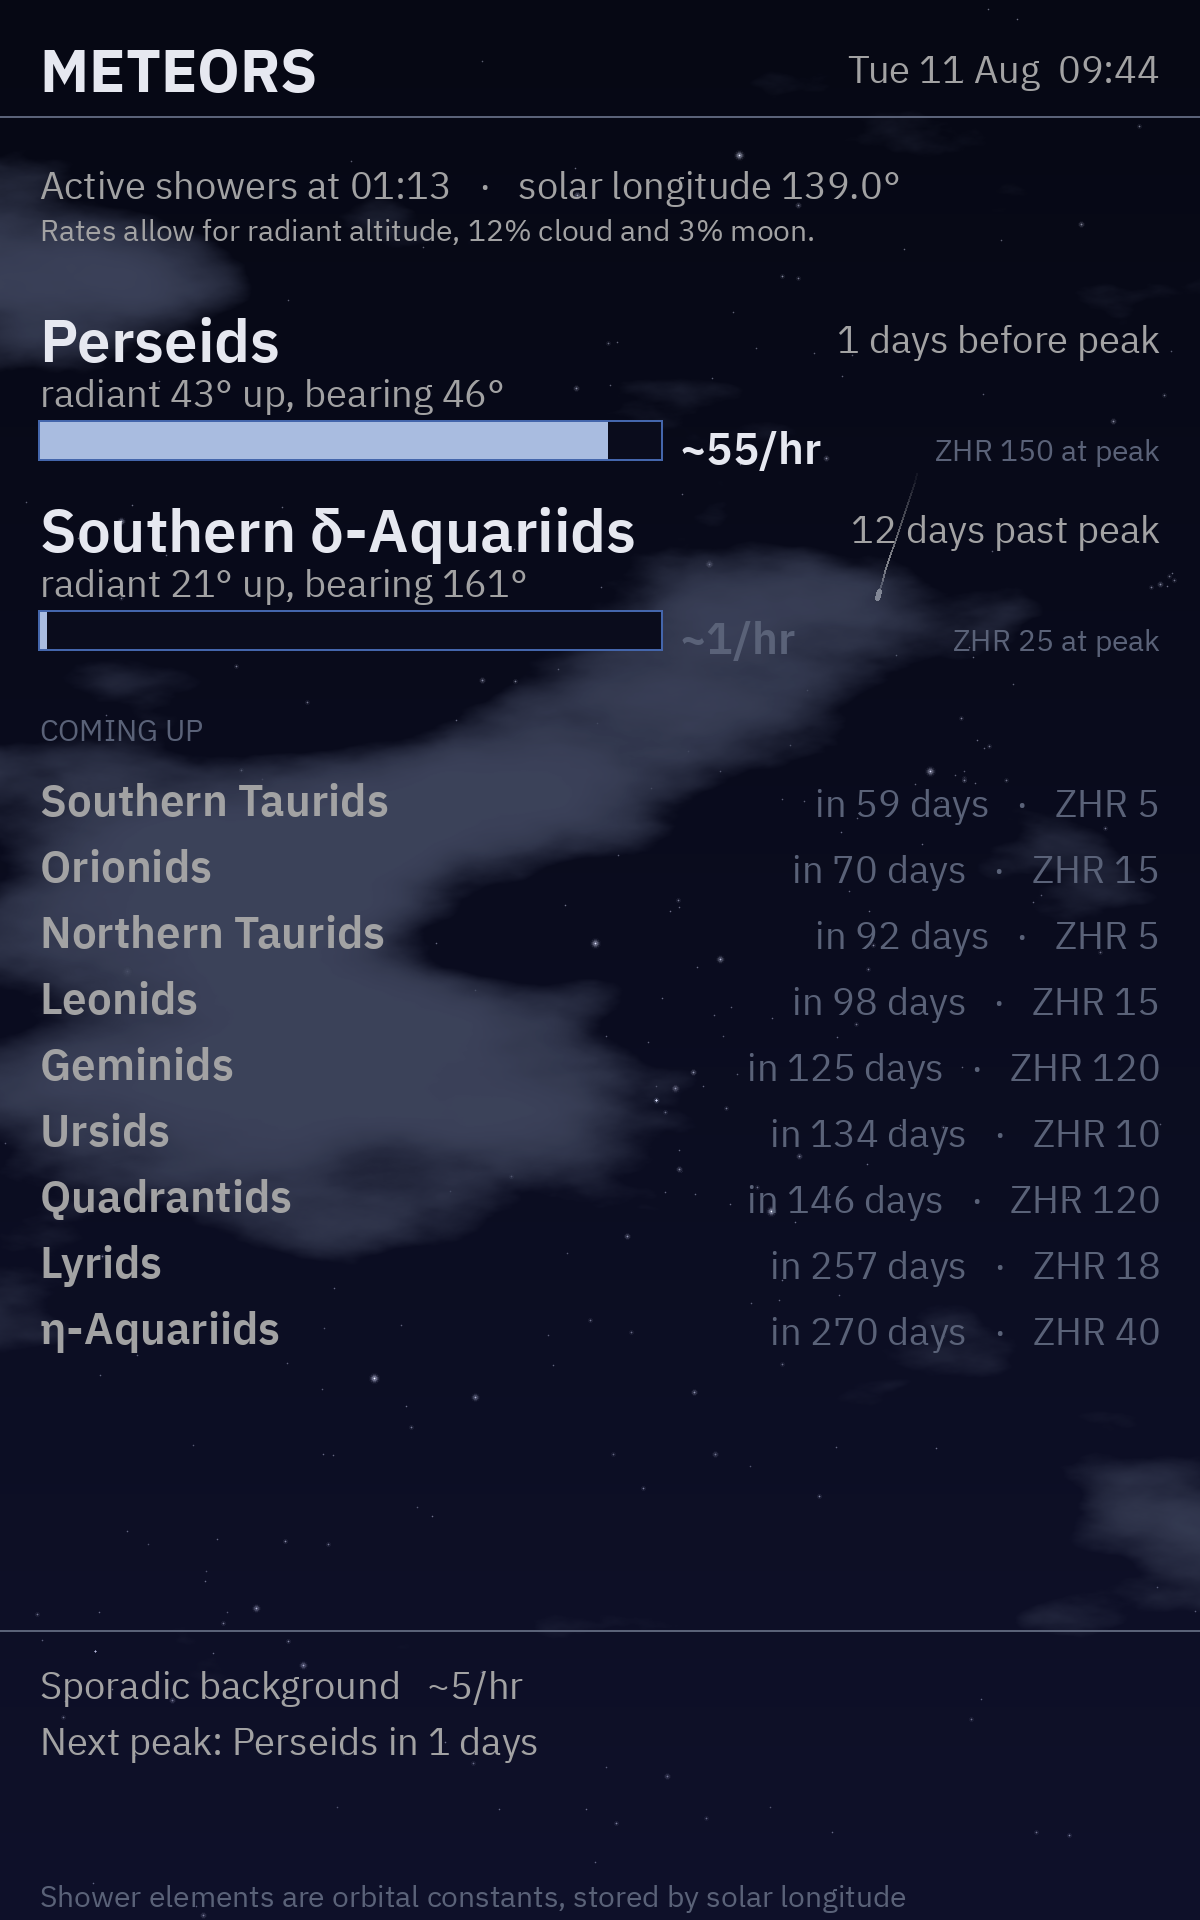
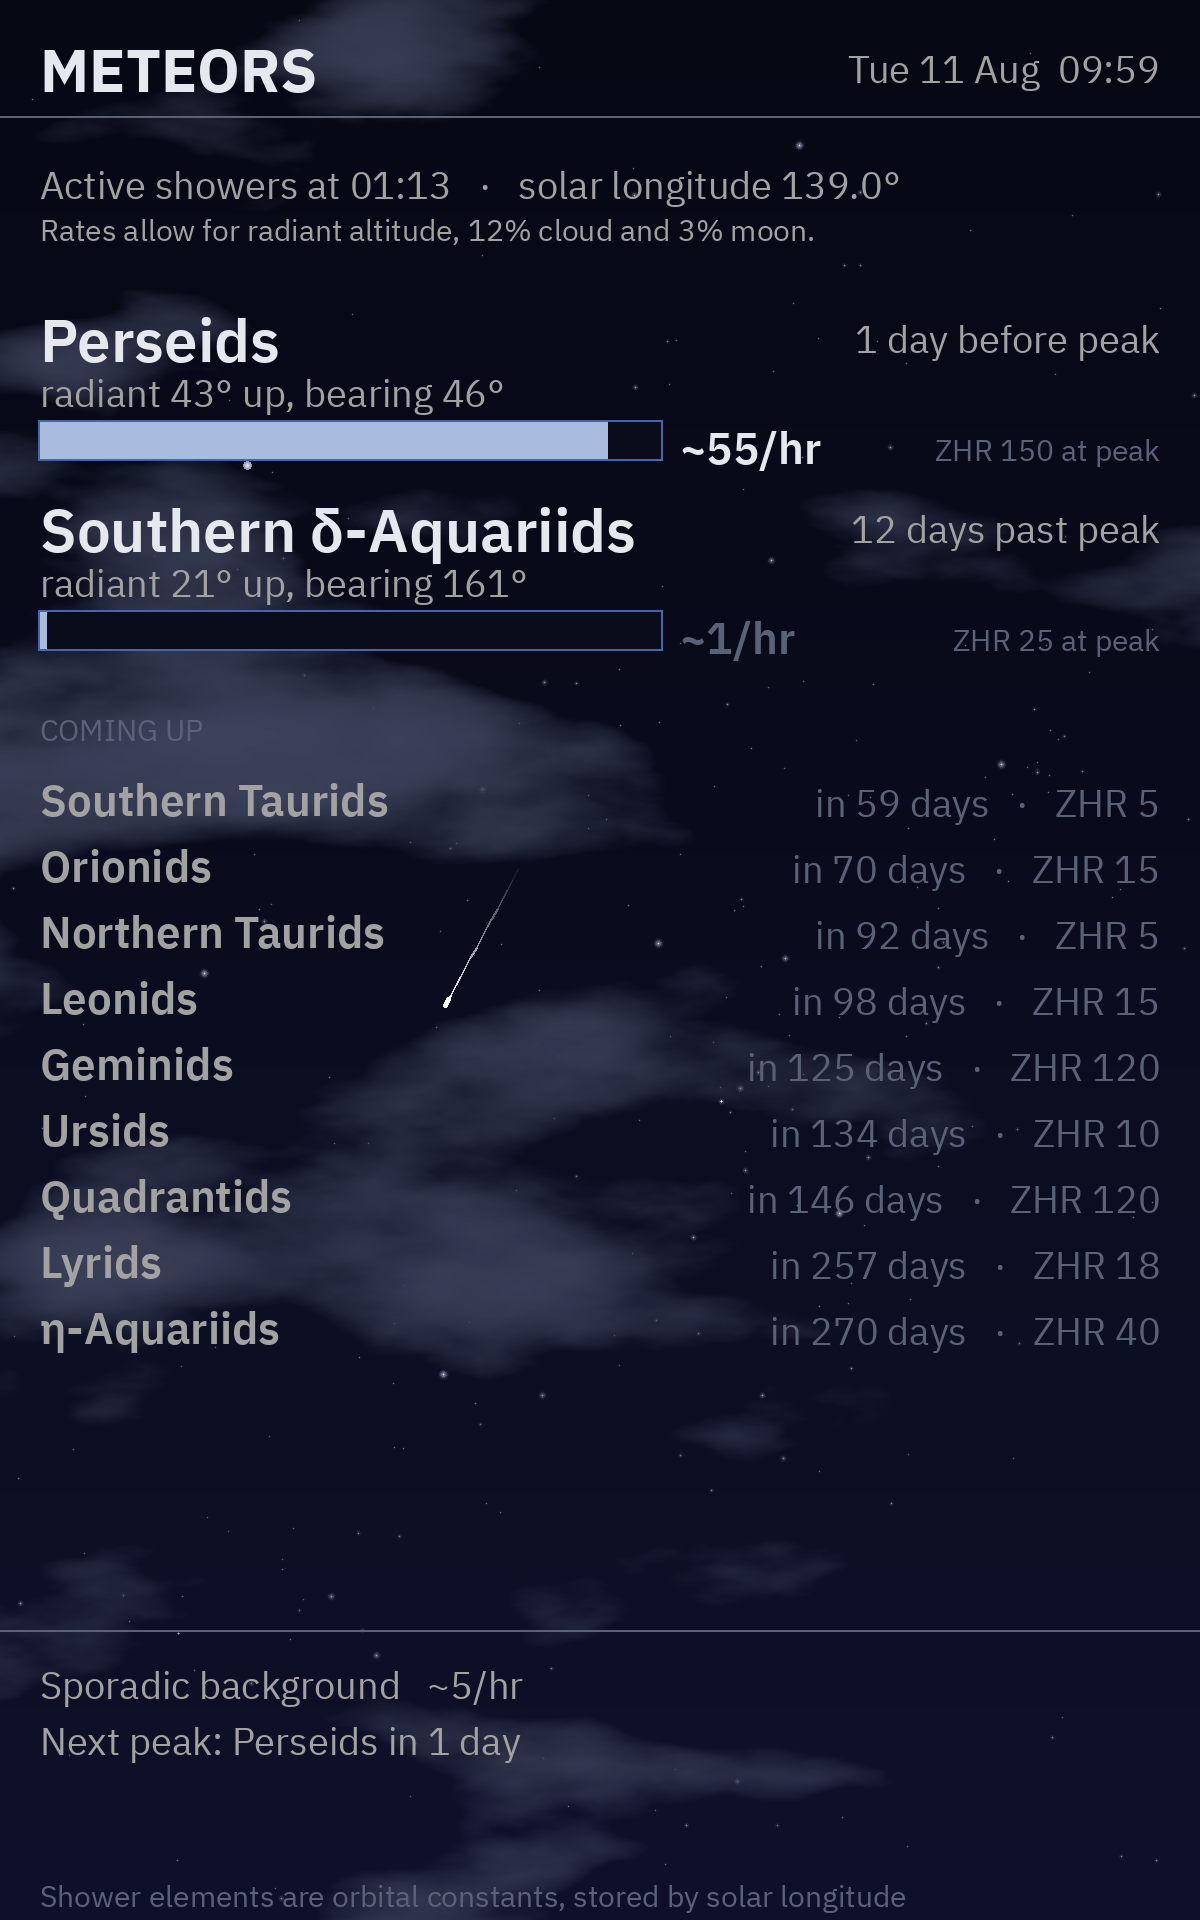
Make the day counts agree with their number
Every day figure on the meteor page went through `:.0f` with a hardcoded
"days", so the singular case was wrong on exactly the day the page matters
most: the day before a shower peak. It read "1 days before peak" and "Next
peak: Perseids in 1 days", and it had done since the page was written - unseen
because it only shows for 24 hours per shower, and yesterday's screenshot
happened to catch one.

One helper rounds first and picks the plural from the ROUNDED value, so 1.4
days reads "1 day" rather than rounding to 1 and then disagreeing with itself.
Applied at all four sites: both peak labels, the Coming Up list and the footer.

build5 is unaffected - it has no meteor page and formats no day counts.

10in-meteors.png retaken from the panel, since the one committed an hour ago
shows the bug.

diff --git a/build10/display.py b/build10/display.py
@@ -77,7 +77,7 @@ from core.touch import TouchReader
 from core.values import _dt, _f, _i, _phrase, load_config
 from core.weather import KMH_TO_MPH, compare_sources, make_fetcher, obscuration_of
 
-VERSION = "0.30.0"
+VERSION = "0.31.0"
 
 # The largest image this program legitimately opens is a 730x730 moon frame.
 # PIL's default decompression-bomb threshold (~178M pixels) would let a hostile
@@ -254,6 +254,18 @@ def _fonts():
 
 def _centre(draw, text, y, fill, f):
     draw.text(((W - int(draw.textlength(text, font=f))) // 2, y), text, fill=fill, font=f)
+
+
+def _days(n):
+    """A rounded day count with the plural that matches it.
+
+    The count is rounded first and the plural follows the ROUNDED value, so a
+    peak 1.4 days away reads "1 day" and not "1 days". Every day figure on this
+    page went through `:.0f`, which meant the singular case was wrong on
+    precisely the day the page matters most - the day before a shower peak.
+    """
+    n = round(n)
+    return f"{n} day" if n == 1 else f"{n} days"
 
 
 def _right(draw, text, y, fill, f):
@@ -879,8 +891,8 @@ def render_meteors(states, lat, lon):
         days_to = (s["peak_lambda"] - lam) % 360.0 / 0.9856
         days_since = s["delta_lambda"] / 0.9856
         peak_note = ("peaking now" if s["delta_lambda"] < 0.5
-                     else f"{days_to:.0f} days before peak" if days_to < 180
-                     else f"{days_since:.0f} days past peak")
+                     else f"{_days(days_to)} before peak" if days_to < 180
+                     else f"{_days(days_since)} past peak")
         _right(draw, peak_note, y + 14, MUTED, f["sm"])
 
         if up:
@@ -943,7 +955,7 @@ def render_meteors(states, lat, lon):
             uy += MET_UP_HEAD
             for name, days, zhr in soon:
                 draw.text((MARGIN, uy), name, font=f["med"], fill=MUTED)
-                _right(draw, f"in {days:.0f} days   ·   ZHR {zhr:.0f}",
+                _right(draw, f"in {_days(days)}   ·   ZHR {zhr:.0f}",
                        uy + 8, DIM, f["sm"])
                 uy += MET_UP_ROW
 
@@ -956,7 +968,7 @@ def render_meteors(states, lat, lon):
     nxt = next_shower(utc)
     if nxt:
         draw.text((MARGIN, sy + 56),
-                  f"Next peak: {nxt[0]} in {nxt[1]:.0f} days",
+                  f"Next peak: {nxt[0]} in {_days(nxt[1])}",
                   font=f["sm"], fill=MUTED)
 
     draw.text((MARGIN, H - 44),
